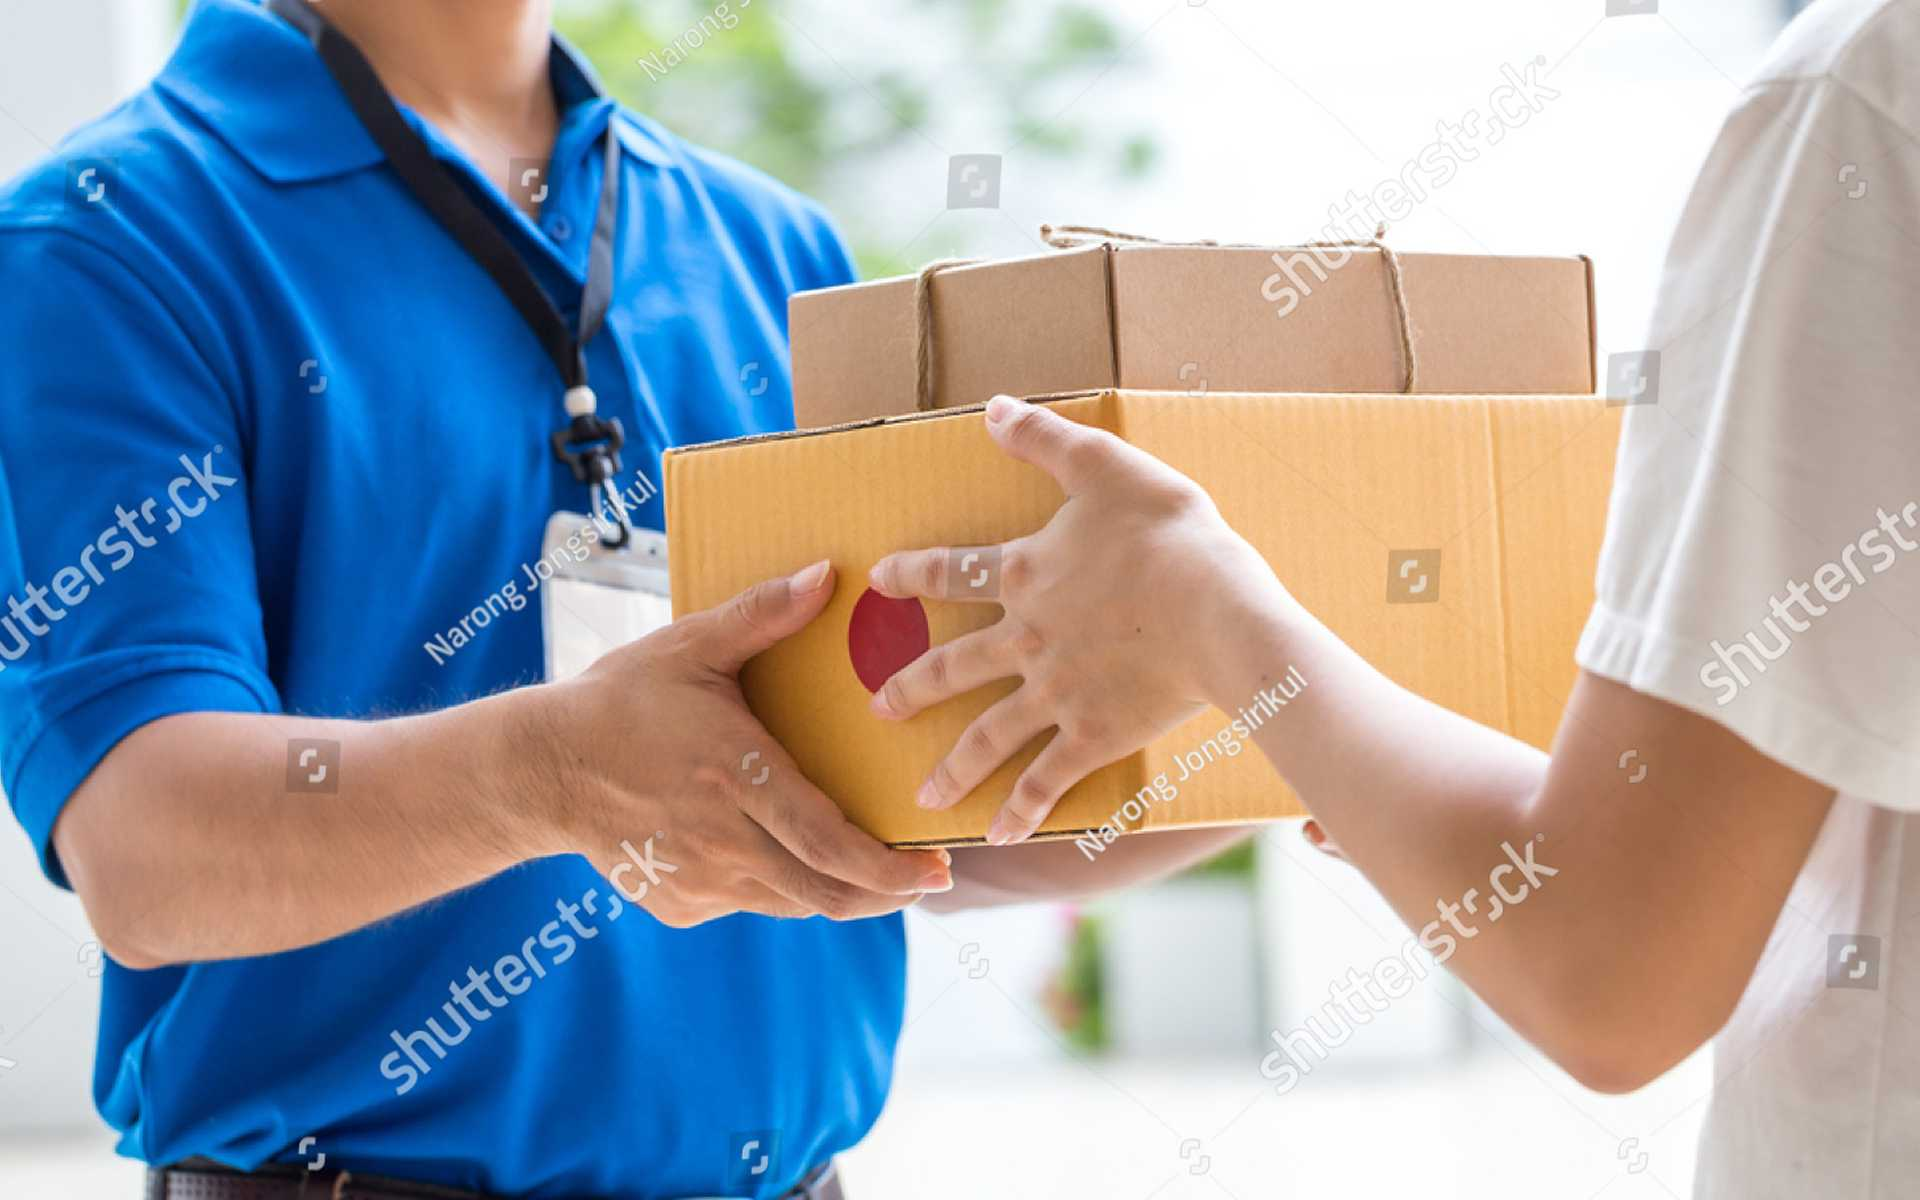
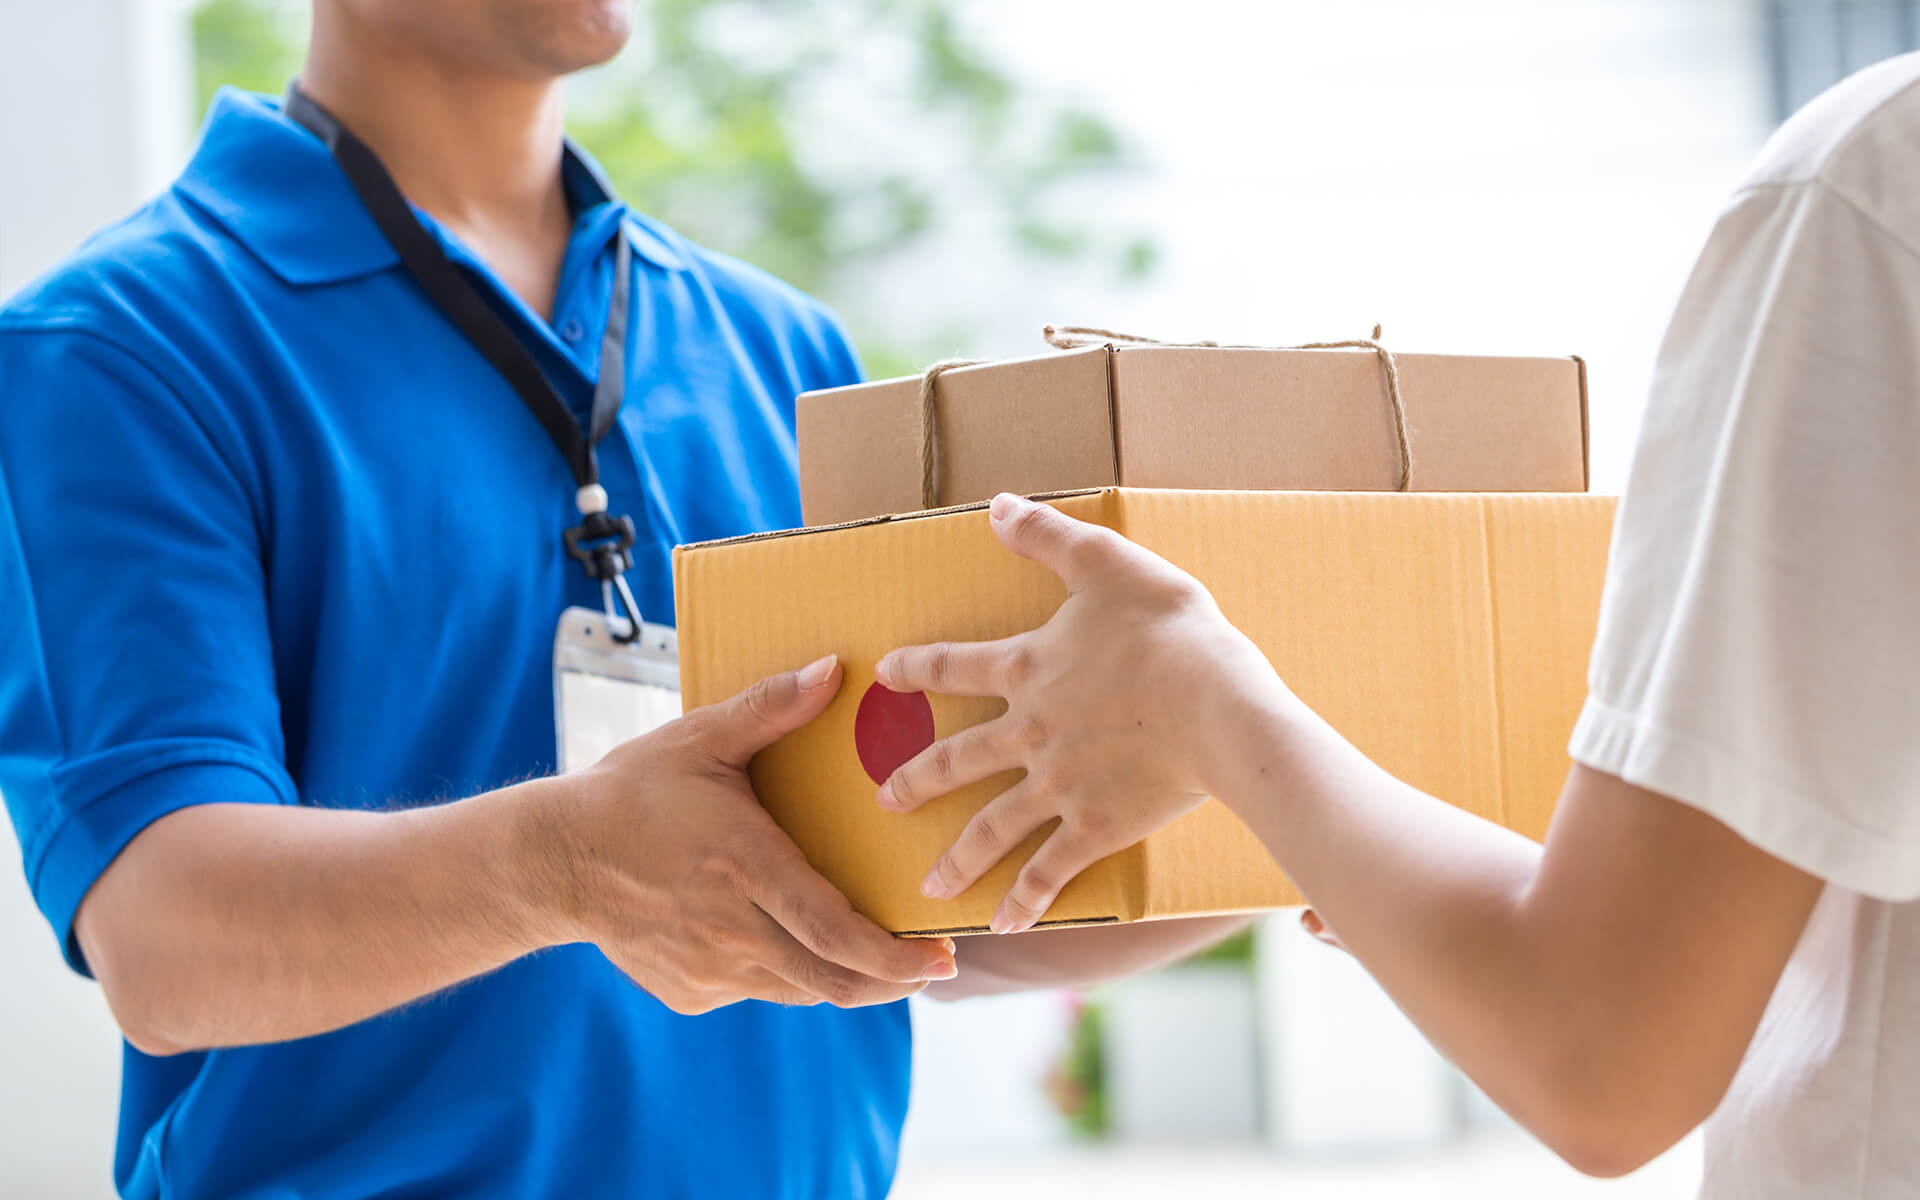
img changes for prodcut pages

diff --git a/frontend/views/content/marketplace/marketplace.js b/frontend/views/content/marketplace/marketplace.js
@@ -39,7 +39,7 @@ myApp.controller('MarketplaceCtrl', function ($scope, TemplateService, Navigatio
     }
     //data for banner image and content
     $scope.banners = [{
-        "image": "img/marketplace/marketplace_bg.png",
+        "image": "img/marketplace/marketplace_bg.jpg",
         "title": "Manage Multiple Marketplaces with ShopMyWay MarketPlace Solutions<br> with your <span class='shop'>ShopMy</span><span class='myway'>Way</span> Solutions",
         "btntext": "Call for free Business Consultation"
     }]

diff --git a/frontend/views/content/marketing/marketing.js b/frontend/views/content/marketing/marketing.js
@@ -41,7 +41,7 @@ myApp.controller('MarketingCtrl', function ($scope, TemplateService, NavigationS
     }
     //data for banner image and content
     $scope.banners = [{
-        "image": "img/marketing/marketing_bg.png",
+        "image": "img/marketing/marketing_bg.jpg",
         "title": "Promote and grow your business through<br> online and mobile sales with your <br><span class='shop'>ShopMy</span><span class='myway'>Way</span> Solutions",
         "btntext": "Call for free Business Consultation"
     }]

diff --git a/frontend/views/content/ecommerce/ecommerce.js b/frontend/views/content/ecommerce/ecommerce.js
@@ -105,7 +105,7 @@ myApp.controller('EcommerceCtrl', function ($scope, TemplateService, NavigationS
     }
 
     $scope.banners = [{
-        "image": "img/ecommerce/ecommerce_bg.png",
+        "image": "img/ecommerce/ecommerce_bg.jpg",
         "title": "Introducing - Your Online <br> Business Partner!",
         "subtitle": "With our Complete E-commerce Solution, we guarantee you growth in your online sales!",
         "btntext": "Arrange A Call Back"
